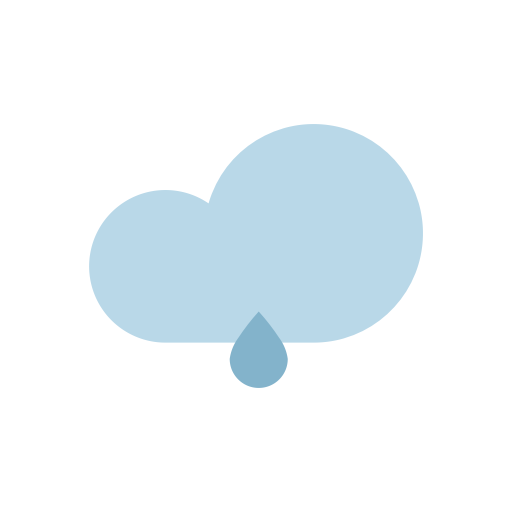
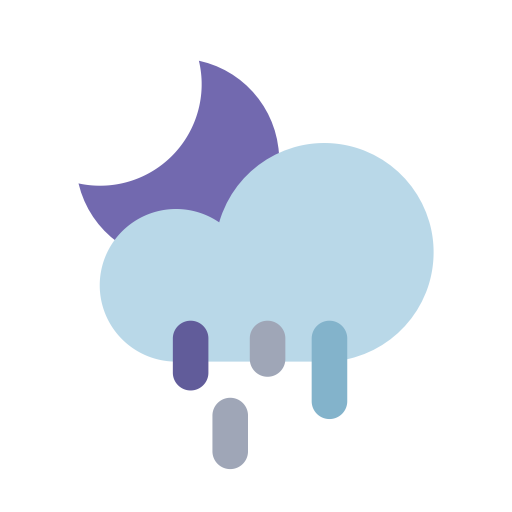
Building forcast in JS

Changed region(s): [[0.1562, 0.125, 0.8125, 0.625], [0.2188, 0.375, 0.875, 0.9375]]

diff --git a/script.js b/script.js
@@ -1,40 +1,98 @@
-let now = new Date();
+// let now = new Date();
 
-let currentDate = document.querySelector('#current-date');
-let date = now.getDate();
-let days = ['Sunday', 'Monday', 'Tuesday', 'Wednesday', 'Thursday', 'Friday', 'Saturday'];
-let day = days[now.getDay()];
-let hours = now.getHours();
-if (hours < 10) {
+// let currentDate = document.querySelector('#current-date');
+// let date = now.getDate();
+// let days = ['Sunday', 'Monday', 'Tuesday', 'Wednesday', 'Thursday', 'Friday', 'Saturday'];
+// let day = days[now.getDay()];
+// let hours = now.getHours();
+// if (hours < 10) {
+//   hours = `0${hours}`;
+// }
+// let minutes = now.getMinutes();
+// if (minutes < 10) {
+//   minutes = `0${minutes}`;
+// }
+// currentDate.innerHTML = `${day} ${hours}:${minutes}`;
+function formatDate (timestamp){
+  
+  let now = new Date(timestamp);
+  let date = now.getDate();
+  let days = ['Sunday', 'Monday', 'Tuesday', 'Wednesday', 'Thursday', 'Friday', 'Saturday'];
+  let day = days[now.getDay()];
+  let hours = now.getHours();
+    if (hours < 10) {
   hours = `0${hours}`;
-}
-let minutes = now.getMinutes();
-if (minutes < 10) {
+  }
+  let minutes = now.getMinutes();
+    if (minutes < 10) {
   minutes = `0${minutes}`;
 }
-currentDate.innerHTML = `${day} ${hours}:${minutes}`;
+
+  return `${day} ${hours}:${minutes}`;
+}
 
 // getting API data
 
 function showCurrentTemperature(response){
-  // console.log(response.data);
+  
   let currentTemp = document.querySelector('#current-temperature');
   currentTemp.innerHTML = Math.round(response.data.main.temp);
   let currentCity = document.querySelector('#current-city');
   currentCity.innerHTML = response.data.name;
   let currentCondition = document.querySelector('#condition');
+  
+  let currentDate = document.querySelector('#current-date');
+  currentDate.innerHTML = formatDate(response.data.dt * 1000);
+  
   currentCondition.innerHTML = response.data.weather[0].description;
   let icon = document.querySelector('#icon');
   icon.setAttribute("src", `img/${response.data.weather[0].icon}.png`)
-  // icon.setAttribute( 'src',`http://openweathermap.org/img/wn/${response.data.weather[0].icon}@2x.png`)
+  
 
 };
+function formatHours(timestamp){
+  let now = new Date(timestamp);
+  let hours = now.getHours();
+    if (hours < 10) {
+  hours = `0${hours}`;
+  }
+  let minutes = now.getMinutes();
+    if (minutes < 10) {
+  minutes = `0${minutes}`;
+}
+
+  return `${hours}:${minutes}`;
+
+}
+
+
+function showForecast(response){
+
+  let forecastElement = document.querySelector('#weather-forecast');
+  forecastElement.innerHTML = null;
+  let forecast = null;
+
+  for (let i = 0; i < 6; i++){
+    forecast = response.data.list[0];
+    forecastElement.innerHTML += `
+      <div col-2 class="forecast">
+        <h3>${formatHours(forecast.dt * 1000)}</h3>
+        <img src="img/${forecast.weather[0].icon}.png" alt="sunny" class="icons">
+        <div class="forecast-temp">
+        <h3>${Math.round(forecast.main.temp_min)}°</h3>
+      </div>`
+  }
+
+}
 
 function search(city){
   let apiKey = '297d2ceaacf10d700959a7f0a28e4920';
   let apiUrl = `https://api.openweathermap.org/data/2.5/weather?q=${city}&appid=${apiKey}&units=metric`
 
   axios.get(apiUrl).then(showCurrentTemperature);
+
+  apiUrl = `https://api.openweathermap.org/data/2.5/forecast?q=${city}&appid=${apiKey}&units=metric`;
+  axios.get(apiUrl).then(showForecast);
 }
 
 

diff --git a/index.html b/index.html
@@ -26,7 +26,7 @@
     <!-- End of Form -->
     <div class="row">
       <div class="col-md-6 icon">
-        <img id="icon" src="" alt=""> 
+        <img id="icon" src="img/01n.png" alt=""> 
       </div>
       <div class="col-md-6 location">
      
@@ -40,83 +40,9 @@
         
      
     </div>
-      <!-- <div class="row days">
-        <div class="col col-1">Mon</div>
-        <div class="col col-1">Tue</div>
-        <div class="col col-1">Wed</div>
-        <div class="col col-1">Thur</div>
-        <div class="col col-1">Fri</div>
-        <div class="col col-1">Sat</div>
-        <div class="col col-1">Sun</div>
-      </div>
-      <div class="row weather-view">
-        <div class="col col-1"><img src="" class="icons" id="icon" alt=""></div>
-        <div class="col col-1"><img src="" class="icons" id="icon" alt=""></div>
-        <div class="col col-1"><img src="" class="icons" id="icon" alt=""></div>
-        <div class="col col-1"><img src="" class="icons" id="icon" alt=""></div>
-        <div class="col col-1"><img src="" class="icons" id="icon" alt=""></div>
-        <div class="col col-1"><img src="" class="icons"id="icon" alt=""></div>
-        <div class="col col-1"><img src="" class="icons" id="icon"alt=""></div>
-      </div>
-      <div class="row temperature">
-        <div class="col col-1">22°</div>
-        <div class="col col-1">20°</div>
-        <div class="col col-1">18°</div>
-        <div class="col col-1">18°</div>
-        <div class="col col-1">22°</div>
-        <div class="col col-1">22°</div>
-        <div class="col col-1">20°</div>
-      </div> -->
-    <div class="row weather-forcast" id="weather-forcast">
-      <div col-2 class="forcast">
-        <h3>Mon</h3>
-        <img src="img/01d.png" alt="sunny" class="icons">
-        <div class="forcast-temp">
-          <h3>20°</h3>
-        </div>
-      </div>
-      <div col-2 class="forcast">
-        <h3>Tue</h3>
-        <img src="img/01d.png" alt="sunny" class="icons">
-        <div class="forcast-temp">
-          <h3>20°</h3>
-        </div>
-      </div>
-      <div col-2 class="forcast">
-        <h3>Wed</h3>
-        <img src="img/03d.png" alt="sunny" class="icons">
-        <div class="forcast-temp">
-          <h3>20°</h3>
-        </div>
-      </div>
-      <div col-2 class="forcast">
-        <h3>Thur</h3>
-        <img src="img/03d.png" alt="sunny" class="icons">
-        <div class="forcast-temp">
-          <h3>20°</h3>
-        </div>
-      </div>
-      <div col-2 class="forcast">
-        <h3>Fri</h3>
-        <img src="img/01d.png" alt="sunny" class="icons">
-        <div class="forcast-temp">
-          <h3>20°</h3>
-        </div>
-      </div>
-      <div col-2 class="forcast">
-        <h3>Sat</h3>
-        <img src="img/09d.png" alt="sunny" class="icons">
-        <div class="forcast-temp">
-          <h3>20°</h3>
-        </div>
-      </div>
-      <div col-2 class="forcast">
-        <h3>Sun</h3>
-        <img src="img/09d.png" alt="sunny" class="icons">
-        <div class="forcast-temp">
-          <h3>20°</h3>
-        </div>
-      </div>
+    
+    <div class="row weather-forecast" id="weather-forecast"></div>
+      
     </div>
 
   </div>

diff --git a/style.css b/style.css
@@ -60,6 +60,7 @@ form{
   max-width: 600px;
 }
 .search-input{
+
   border: 1px solid #4f8a8b;;
   border-radius: 6px;
   font-size: 18px;
@@ -82,17 +83,17 @@ form{
   background: #4f8a8b;
 	color: #ffffff;
 }
-.weather-forcast {
-  padding-left: 70px;
+.weather-forecast {
+  padding-left: 80px;
 }
-.forcast-temp{
+.forecast-temp{
   color: #4f8a8b;
   font-size: 20px;
   font-weight: 300;
   margin-bottom: 10px;
 }
-.forcast {
-  padding: 10px;
+.forecast {
+  padding: 15px;
 }
 /* .days, .weather-view, .temperature {
   color: #4f8a8b;
